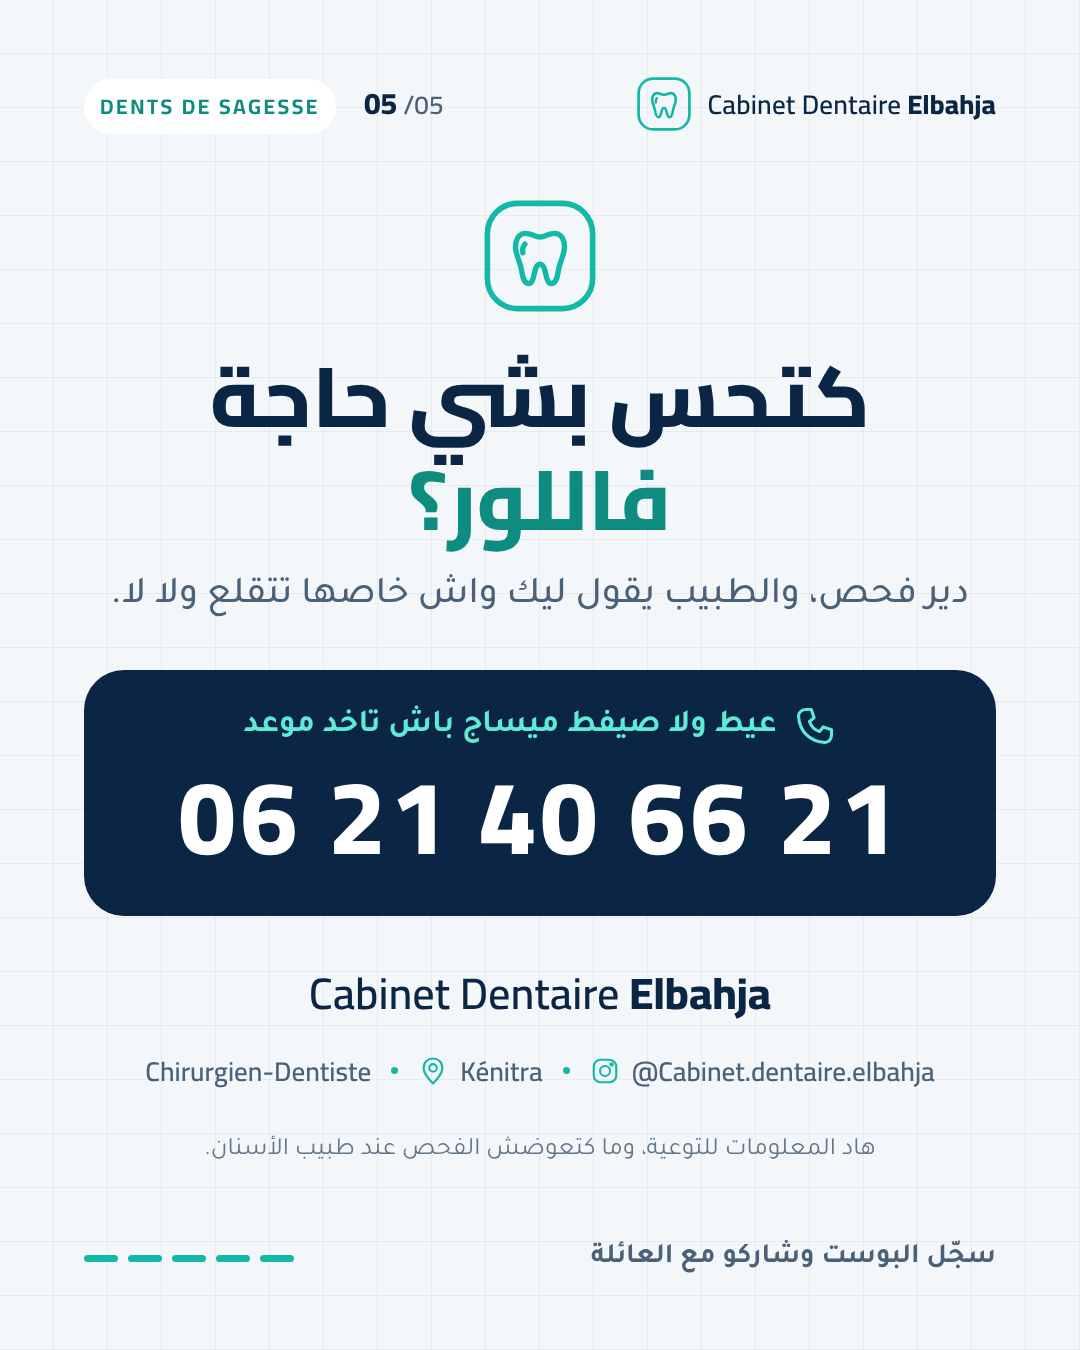
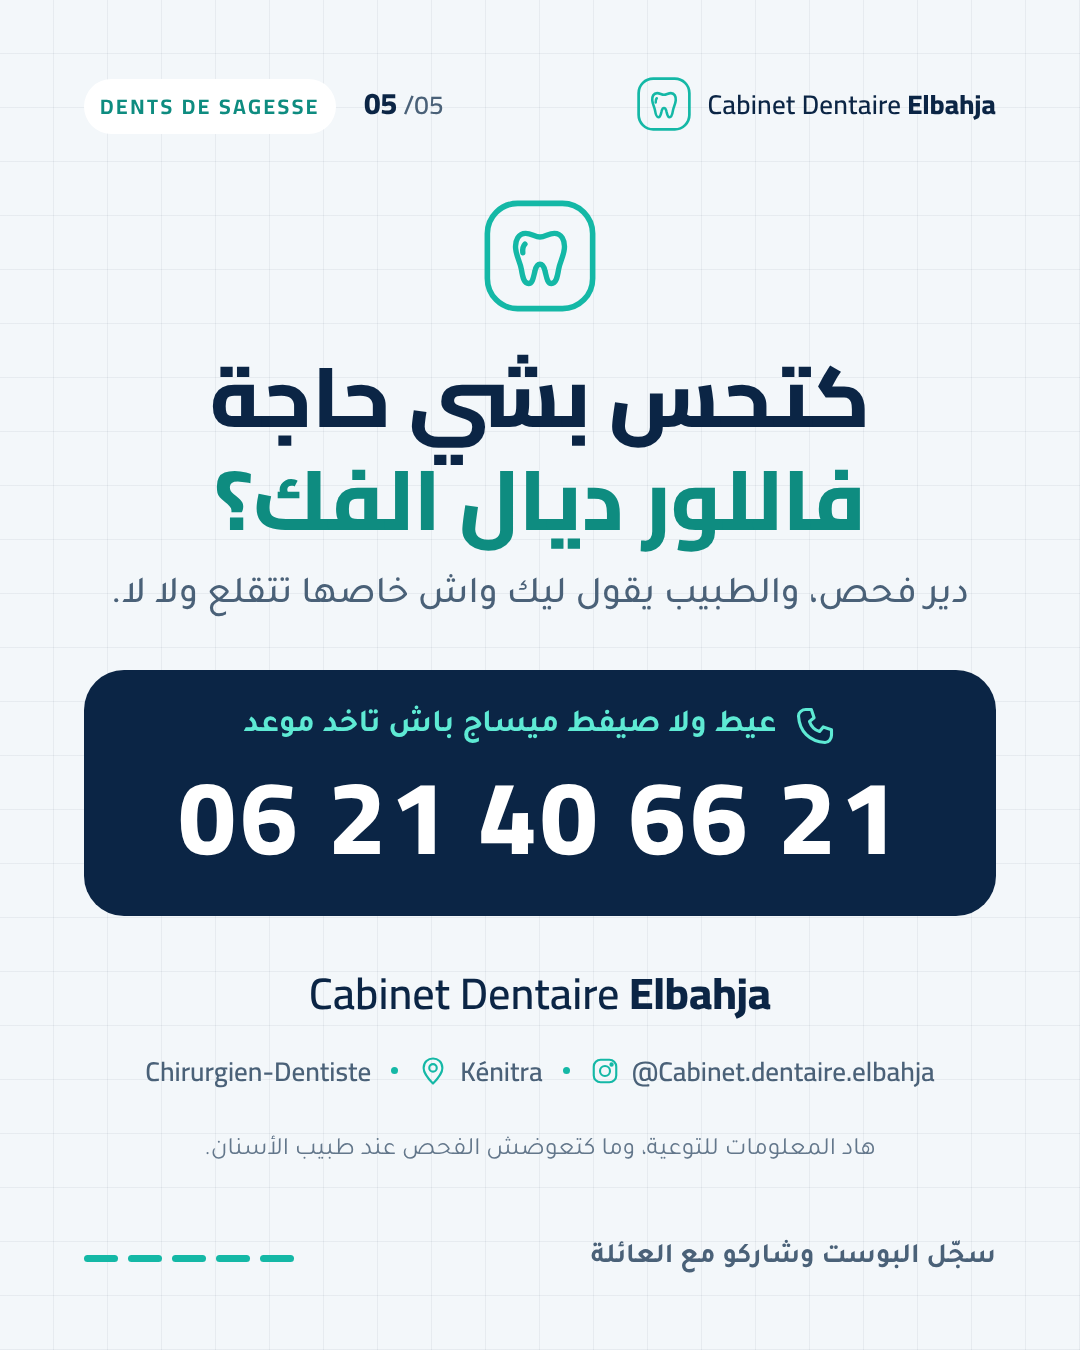
Post 3 CTA: say «فاللور ديال الفك»
Claude-Session: https://claude.ai/code/session_019emWRaxJxmTDAcuXxMsAYu

Changed region(s): [[0.1833, 0.3422, 0.7944, 0.4044]]

diff --git a/carousels/README.md b/carousels/README.md
@@ -119,7 +119,7 @@ In the text, `[[mot]]` keeps a French word left-to-right, and `**mot**` puts a w
 | 2 | **علاش كتعمل المشاكل؟**<br>هي آخر ضرسة كتطلع، غالبا بين **17 و 25 عام**. ملي ما كتلقاش البلاصة، كتبقى معوجة ولا مدفونة فالعظم (incluse).<br>*Normale*: طالعة مزيان · *Mésio-angulée*: معوجة · *Incluse*: مدفونة فالعظم<br>✓ ماشي كاع ضروس العقل خاصهم يتقلعو. | 3 "technical drawing" panels with dashed borders: the 47 and 48 teeth with the bone line. 48 is first upright, then tilted towards 47, then lying flat inside the bone. |
 | 3 | **علامات كتحتاج فحص**<br>• وجع فاللور ديال الفك<br>• اللثة فوق الضرسة منفوخة ولا كتوجع<br>• صعوبة فحلان الفم ولا فالمضغ<br>• مذاق خايب ولا ريحة من اللور<br>⚠ **نفخة فالوجه، سخانة ولا صعوبة فالبلع؟** سير لطبيب الأسنان بلا تعطال. وما تاخدش antibiotiques بلا وصفة. | White rows with thin borders over the grid. The alert card has a coral border. A short turquoise rule under the title, in the blueprint style. |
 | 4 | **إمتى كتقلع؟**<br>الطبيب كيقرر من بعد الفحص والراديو (panoramique)، إلا كان:<br>1. التهاب كيتعاود فاللثة اللي داير بيها<br>2. تسوس فيها ما كيتعالجش، ولا فالضرسة اللي حداها<br>3. كتضغط على الضرسة اللي حداها وكتضرها<br>4. كيس (kyste) ولا مشكل فالعظم<br>📅 إلا ما كان حتى مشكل، ممكن تبقى غير تحت المراقبة. | 4 numbered cards (icons: infection, tooth, neighbouring tooth, cyst). A turquoise box: "monitoring is also an option". |
-| 5 | **كتحس بشي حاجة / فاللور؟**<br>دير فحص، والطبيب يقول ليك واش خاصها تتقلع ولا لا.<br>[CTA block] | Common CTA on the grid paper. |
+| 5 | **كتحس بشي حاجة / فاللور ديال الفك؟**<br>دير فحص، والطبيب يقول ليك واش خاصها تتقلع ولا لا.<br>[CTA block] | Common CTA on the grid paper. |
 
 **Caption**
 
